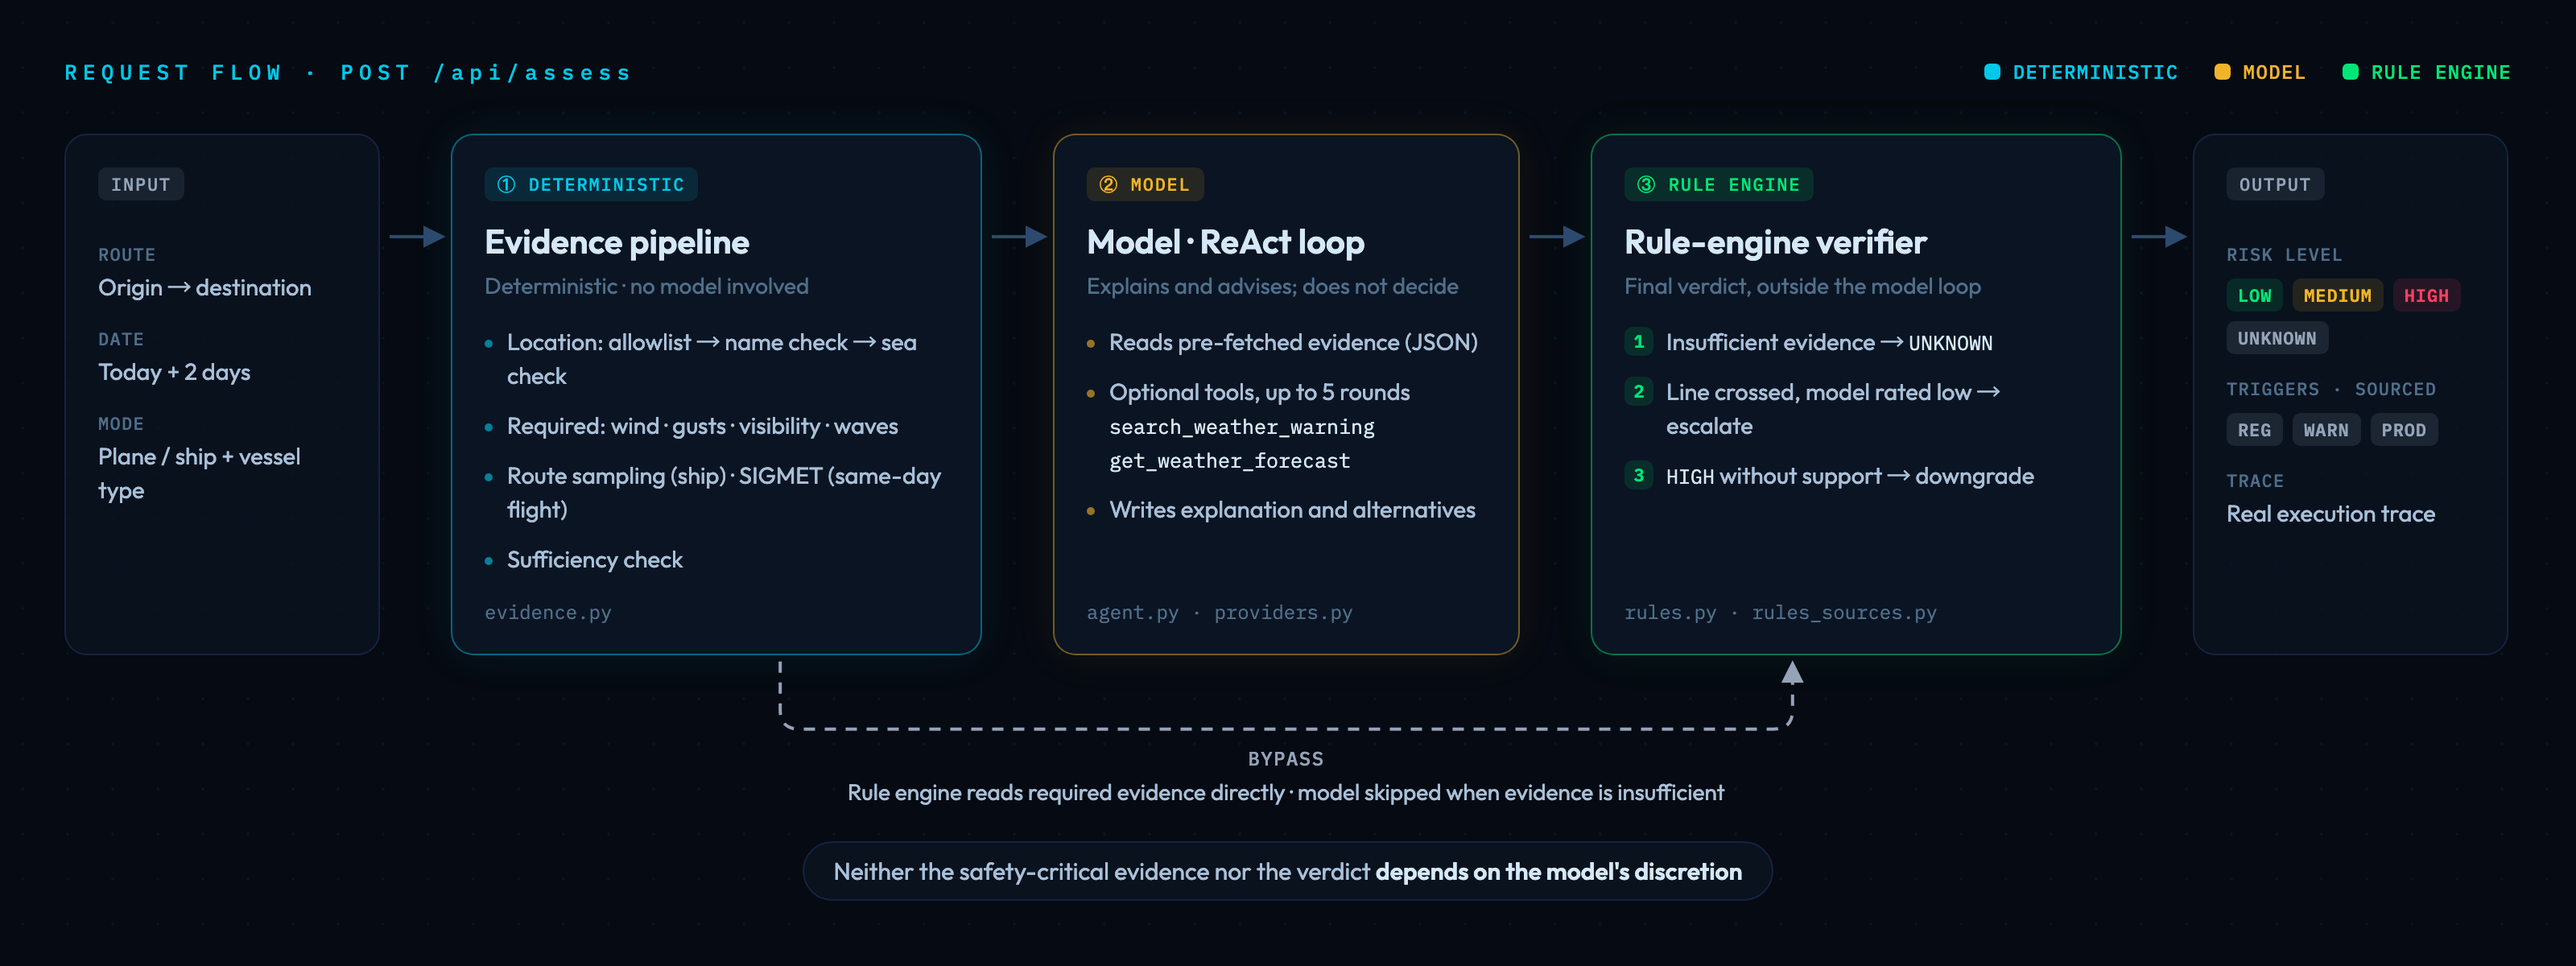
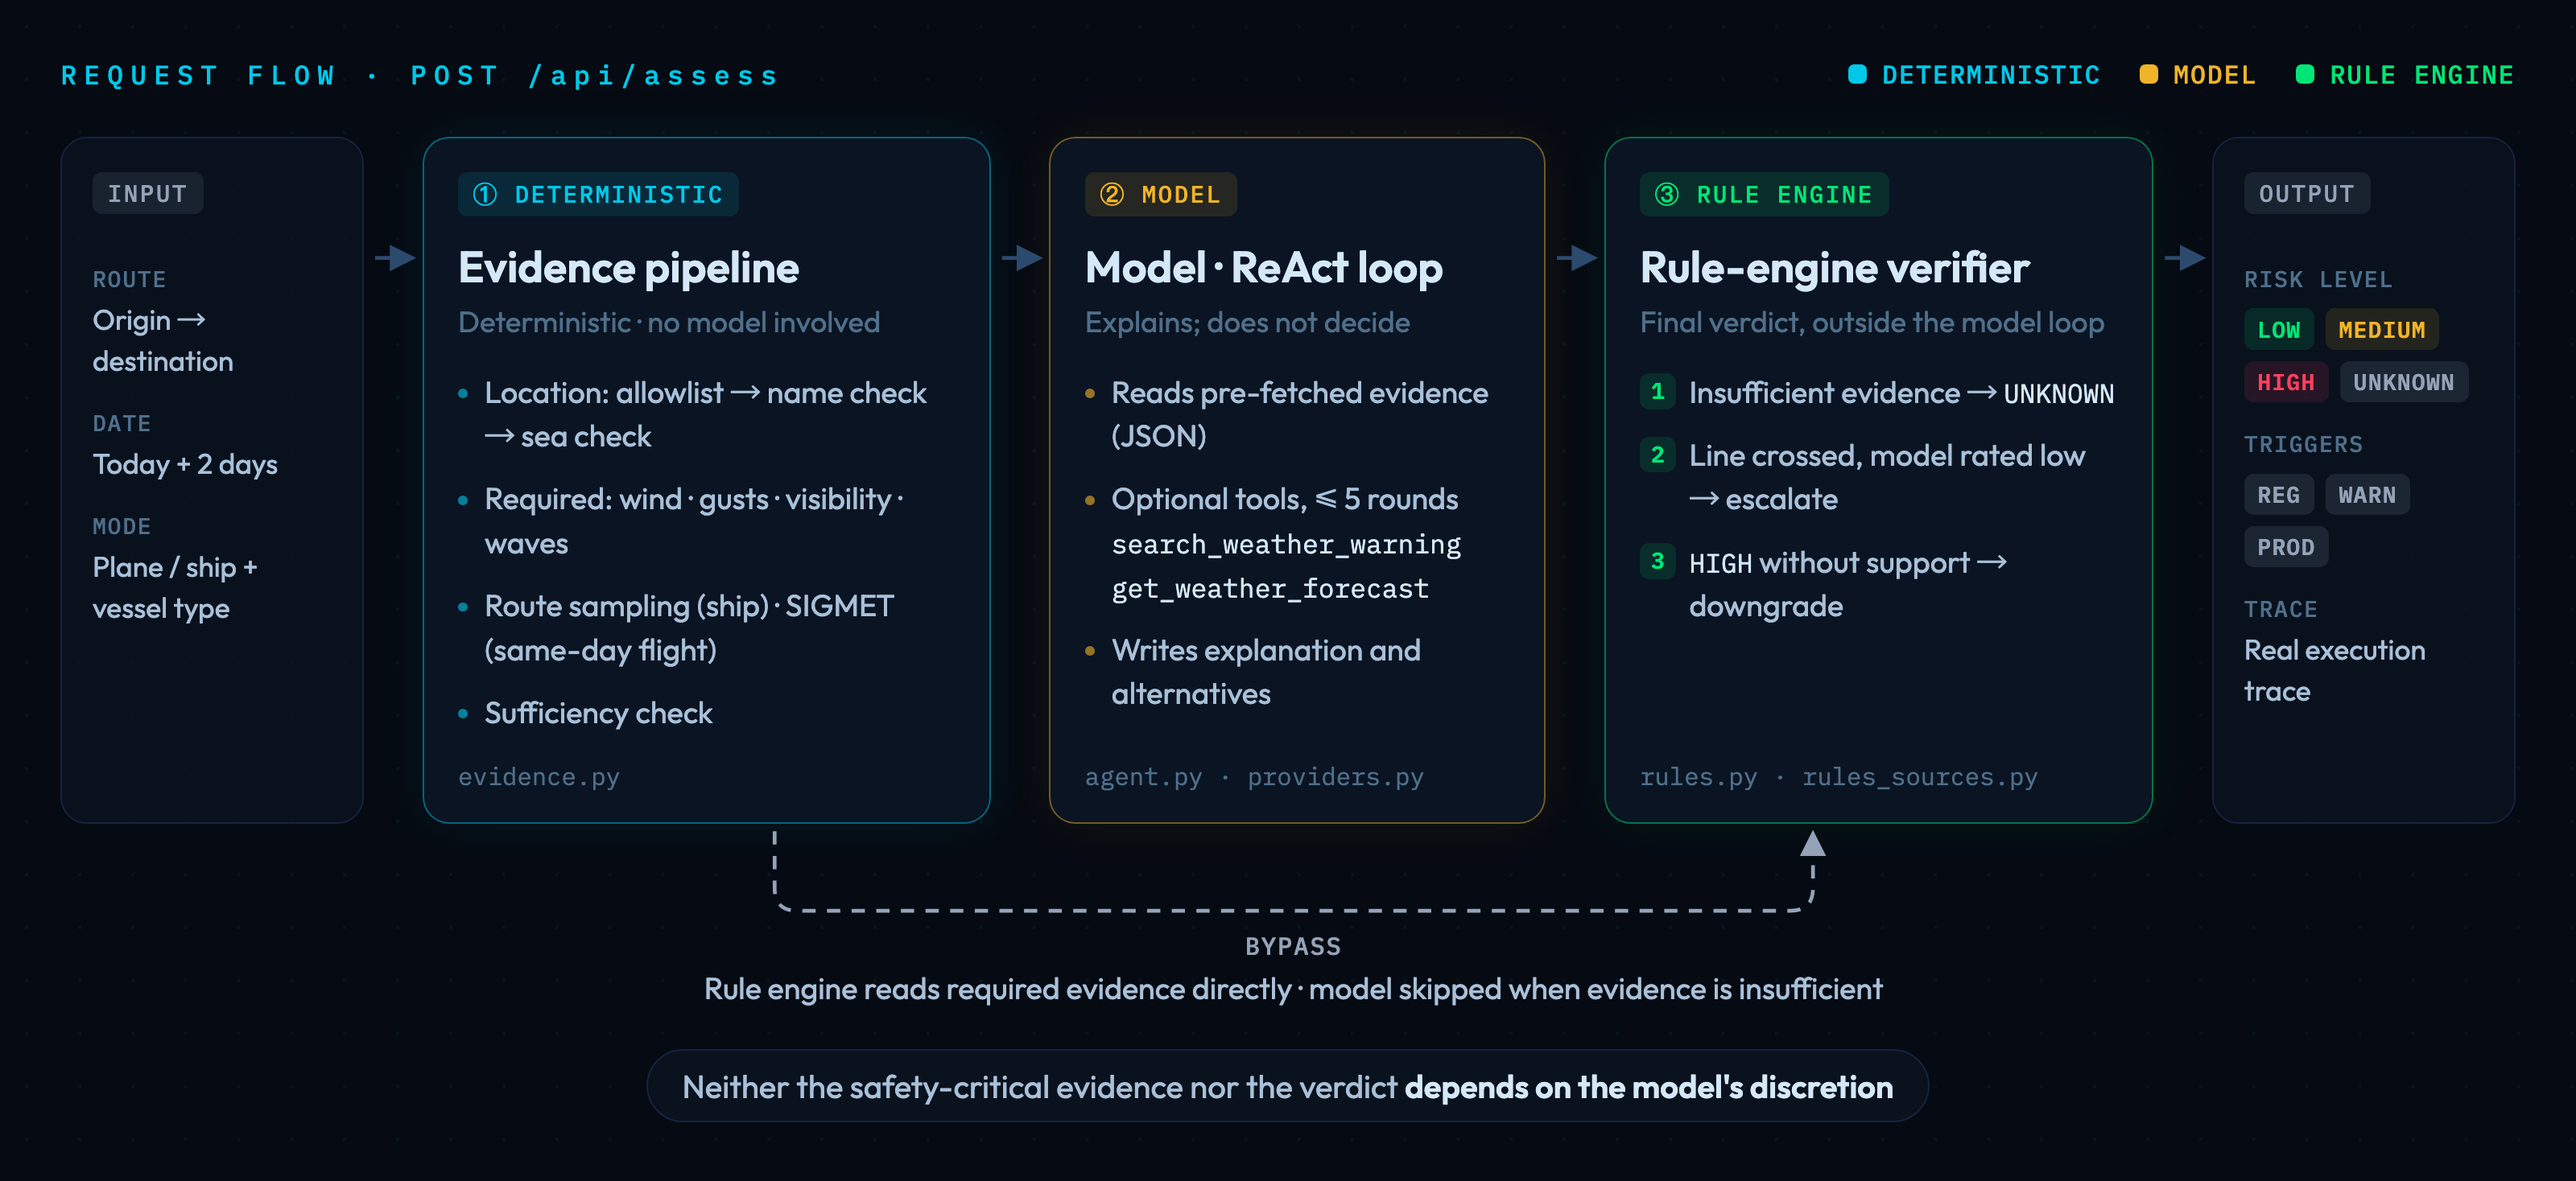
docs: 架构图改按 1360 宽排版，README 里正文字号从约 8px 提到约 10px
原图按 1600 宽排版，缩到 README 的约 880px 显示宽度后正文太小。
同时收紧中文文案避免单字折行，旁路虚线的覆盖层高度不再依赖视口。

diff --git a/tools/graphics/architecture.html b/tools/graphics/architecture.html
@@ -16,37 +16,39 @@
     --sans: 'Outfit', 'PingFang SC', 'Hiragino Sans GB', system-ui, sans-serif;
   }
   * { margin: 0; padding: 0; box-sizing: border-box; }
-  html, body { width: 1600px; height: 100vh; overflow: hidden; }
+  html, body { width: 100vw; height: 100vh; overflow: hidden; }
   body {
     position: relative;
     background: var(--bg);
     background-image: radial-gradient(circle, rgba(0,200,232,0.06) 1px, transparent 1px);
     background-size: 28px 28px;
     color: var(--text); font-family: var(--sans);
-    padding: 36px 40px 0;
+    padding: 30px 32px 0;
   }
 
-  .top { display: flex; justify-content: space-between; align-items: center; margin-bottom: 30px; }
-  .top-tag { font: 500 13px var(--mono); letter-spacing: 0.28em; color: var(--cyan); }
-  .legend { display: flex; gap: 22px; font: 500 12px var(--mono); letter-spacing: 0.06em; }
+  .top { display: flex; justify-content: space-between; align-items: center; margin-bottom: 24px; }
+  .top-tag { font: 500 14px var(--mono); letter-spacing: 0.28em; color: var(--cyan); }
+  .legend { display: flex; gap: 20px; font: 500 13.5px var(--mono); letter-spacing: 0.06em; }
   .legend span { display: flex; align-items: center; gap: 8px; }
   .legend i { width: 10px; height: 10px; border-radius: 3px; display: inline-block; }
 
   .row { display: flex; align-items: stretch; }
-  .gap { width: 44px; flex-shrink: 0; }
+  .gap { width: 31px; flex-shrink: 0; }
 
   .card {
     background: var(--surface); border: 1px solid var(--border); border-radius: 14px;
-    padding: 20px 20px 18px; display: flex; flex-direction: column;
+    padding: 18px 18px 16px; display: flex; flex-direction: column;
   }
-  .card.io { width: 196px; background: rgba(11,20,34,0.7); }
-  .card.stage { width: 330px; }
+  .card.io { width: 160px; padding-left: 16px; padding-right: 16px; background: rgba(11,20,34,0.7); }
+  .card.stage { width: 300px; }
+  .card { flex-shrink: 0; }
+  .card.rule { width: 290px; }
   .card.det   { border-color: rgba(0,200,232,0.45); box-shadow: 0 0 28px rgba(0,200,232,0.08); }
-  .card.model { border-color: rgba(240,180,41,0.45); box-shadow: 0 0 28px rgba(240,180,41,0.07); width: 290px; }
+  .card.model { border-color: rgba(240,180,41,0.45); box-shadow: 0 0 28px rgba(240,180,41,0.07); width: 262px; }
   .card.rule  { border-color: rgba(0,230,118,0.45); box-shadow: 0 0 28px rgba(0,230,118,0.07); }
 
   .badge {
-    align-self: flex-start; font: 500 11px var(--mono); letter-spacing: 0.08em;
+    align-self: flex-start; font: 500 12.5px var(--mono); letter-spacing: 0.08em;
     padding: 3px 8px; border-radius: 5px; margin-bottom: 12px;
   }
   .det .badge   { background: rgba(0,200,232,0.12); color: var(--cyan); }
@@ -54,41 +56,41 @@
   .rule .badge  { background: rgba(0,230,118,0.12); color: var(--green); }
   .io .badge    { background: rgba(148,163,184,0.12); color: var(--slate); }
 
-  h3 { font-size: 21px; font-weight: 600; color: var(--text-bright); line-height: 1.25; }
-  .sub { font-size: 14px; color: var(--text-muted); margin-top: 5px; }
+  h3 { font-size: 23px; font-weight: 600; color: var(--text-bright); line-height: 1.25; }
+  .sub { font-size: 15.5px; color: var(--text-muted); margin-top: 5px; }
   ul { list-style: none; margin-top: 16px; display: flex; flex-direction: column; gap: 10px; }
-  li { font-size: 14.5px; line-height: 1.45; padding-left: 14px; position: relative; }
-  li::before { content: ''; position: absolute; left: 0; top: 9px; width: 5px; height: 5px; border-radius: 50%; background: var(--border-bright); }
+  li { font-size: 16px; line-height: 1.45; padding-left: 14px; position: relative; }
+  li::before { content: ''; position: absolute; left: 0; top: 10px; width: 5px; height: 5px; border-radius: 50%; background: var(--border-bright); }
   .det li::before { background: rgba(0,200,232,0.6); }
   .model li::before { background: rgba(240,180,41,0.6); }
   .rule li::before { display: none; }
   .rule li { padding-left: 26px; }
   .rule li b {
-    position: absolute; left: 0; top: 1px; width: 18px; height: 18px; border-radius: 5px;
-    background: rgba(0,230,118,0.12); color: var(--green); font: 600 11px/18px var(--mono); text-align: center;
+    position: absolute; left: 0; top: 2px; width: 19px; height: 19px; border-radius: 5px;
+    background: rgba(0,230,118,0.12); color: var(--green); font: 600 12px/19px var(--mono); text-align: center;
   }
-  code { font: 12.5px var(--mono); color: var(--text-bright); }
-  .file { margin-top: auto; padding-top: 14px; font: 12px var(--mono); color: var(--text-muted); }
+  code { font: 14px var(--mono); color: var(--text-bright); }
+  .file { margin-top: auto; padding-top: 14px; font: 13px var(--mono); color: var(--text-muted); }
 
   .chips { display: flex; flex-wrap: wrap; gap: 6px; margin-top: 8px; }
-  .chip { font: 600 11px var(--mono); padding: 3px 7px; border-radius: 5px; letter-spacing: 0.04em; }
+  .chip { font: 600 12px var(--mono); padding: 3px 7px; border-radius: 5px; letter-spacing: 0.04em; }
   .chip.low { background: rgba(0,230,118,0.12); color: var(--green); }
   .chip.med { background: rgba(240,180,41,0.12); color: var(--amber); }
   .chip.high { background: rgba(255,64,96,0.12); color: var(--red); }
   .chip.unk { background: rgba(148,163,184,0.14); color: var(--slate); }
-  .io .item { font-size: 14.5px; line-height: 1.45; margin-top: 14px; }
+  .io .item { font-size: 15px; line-height: 1.45; margin-top: 14px; }
   .io .item:first-of-type { margin-top: 2px; }
-  .io .k { font: 500 11px var(--mono); color: var(--text-muted); letter-spacing: 0.06em; display: block; margin-bottom: 3px; }
+  .io .k { font: 500 12px var(--mono); color: var(--text-muted); letter-spacing: 0.06em; display: block; margin-bottom: 3px; }
 
   .bypass-label {
     position: absolute; transform: translateX(-50%); text-align: center;
-    font-size: 14px; color: var(--text); white-space: nowrap;
+    font-size: 16px; color: var(--text); white-space: nowrap;
   }
-  .bypass-label em { font-style: normal; color: var(--slate); font: 500 12px var(--mono); letter-spacing: 0.06em; display: block; margin-bottom: 4px; }
+  .bypass-label em { font-style: normal; color: var(--slate); font: 500 13px var(--mono); letter-spacing: 0.06em; display: block; margin-bottom: 4px; }
 
   .footer {
-    position: absolute; left: 40px; right: 40px;
-    display: flex; justify-content: center; font-size: 15px; color: var(--text);
+    position: absolute; left: 32px; right: 32px;
+    display: flex; justify-content: center; font-size: 17px; color: var(--text);
   }
   .footer span { padding: 8px 18px; border: 1px solid var(--border); border-radius: 999px; background: rgba(11,20,34,0.8); }
   .footer b { color: var(--text-bright); font-weight: 600; }
@@ -168,21 +170,21 @@ const T = {
     tag: "REQUEST FLOW · POST /api/assess",
     in_k1: "ROUTE", in_v1: "出发地 → 目的地",
     in_k2: "DATE", in_v2: "今天起 3 天",
-    in_k3: "MODE", in_v3: "飞机 / 船只（含船型）",
+    in_k3: "MODE", in_v3: "飞机 / 船只<br>船只另选船型",
     det_h: "确定性证据管线", det_sub: "不经模型",
-    det_1: "解析坐标：白名单 → 名字校验 → 海域回验",
-    det_2: "必需证据：风速 · 阵风 · 能见度 · 有效浪高",
-    det_3: "船只沿航路采样；航空当天查 SIGMET",
+    det_1: "解析坐标：<br>白名单 → 名字校验 → 海域回验",
+    det_2: "必需证据：<br>风速 · 阵风 · 能见度 · 有效浪高",
+    det_3: "船只：沿航路采样<br>航空：当天查 SIGMET",
     det_4: "充分性判定",
     model_h: "模型 · ReAct 循环", model_sub: "负责解释与建议，不负责判定",
-    model_1: "读取预取的结构化证据（JSON）",
-    model_2: "按需调用补充工具，最多 5 轮<br><code>search_weather_warning</code><br><code>get_weather_forecast</code>",
+    model_1: "读取预取证据（JSON）",
+    model_2: "按需调用补充工具，≤ 5 轮<br><code>search_weather_warning</code><br><code>get_weather_forecast</code>",
     model_3: "产出通俗解释与备选建议",
     rule_h: "规则引擎 verifier", rule_sub: "持有最终判定权，位于模型循环之外",
     rule_1: "证据不足 → <code>UNKNOWN</code>",
-    rule_2: "越过官方线而模型判低 → 强制升级",
-    rule_3: "模型判 <code>HIGH</code> 而指标不支持 → 降级",
-    out_k1: "RISK LEVEL", out_k2: "TRIGGERS · 带出处", out_k3: "TRACE", out_v3: "真实执行轨迹",
+    rule_2: "越线但模型判低 → 强制升级",
+    rule_3: "无指标支撑的 <code>HIGH</code> → 降级",
+    out_k1: "RISK LEVEL", out_k2: "TRIGGERS", out_k3: "TRACE", out_v3: "真实执行轨迹",
     by_em: "BYPASS", by: "必需证据直达规则引擎 · 证据不足时跳过模型调用",
     footer: "安全关键证据的获取与风险判定，<b>均不取决于模型的自由裁量</b>",
   },
@@ -196,15 +198,15 @@ const T = {
     det_2: "Required: wind · gusts · visibility · waves",
     det_3: "Route sampling (ship) · SIGMET (same-day flight)",
     det_4: "Sufficiency check",
-    model_h: "Model · ReAct loop", model_sub: "Explains and advises; does not decide",
+    model_h: "Model · ReAct loop", model_sub: "Explains; does not decide",
     model_1: "Reads pre-fetched evidence (JSON)",
-    model_2: "Optional tools, up to 5 rounds<br><code>search_weather_warning</code><br><code>get_weather_forecast</code>",
+    model_2: "Optional tools, ≤ 5 rounds<br><code>search_weather_warning</code><br><code>get_weather_forecast</code>",
     model_3: "Writes explanation and alternatives",
     rule_h: "Rule-engine verifier", rule_sub: "Final verdict, outside the model loop",
     rule_1: "Insufficient evidence → <code>UNKNOWN</code>",
     rule_2: "Line crossed, model rated low → escalate",
     rule_3: "<code>HIGH</code> without support → downgrade",
-    out_k1: "RISK LEVEL", out_k2: "TRIGGERS · SOURCED", out_k3: "TRACE", out_v3: "Real execution trace",
+    out_k1: "RISK LEVEL", out_k2: "TRIGGERS", out_k3: "TRACE", out_v3: "Real execution trace",
     by_em: "BYPASS", by: "Rule engine reads required evidence directly · model skipped when evidence is insufficient",
     footer: "Neither the safety-critical evidence nor the verdict <b>depends on the model's discretion</b>",
   },
@@ -215,7 +217,7 @@ document.querySelectorAll("[data-t]").forEach(el => { el.innerHTML = T[lang][el.
 
 function draw() {
   const r = id => document.getElementById(id).getBoundingClientRect();
-  const W = 1600, H = window.innerHeight;
+  const W = window.innerWidth, H = 1200;   // 覆盖层取足够高，不依赖视口高度
   const svg = document.createElementNS("http://www.w3.org/2000/svg", "svg");
   svg.setAttribute("width", W); svg.setAttribute("height", H);
   svg.innerHTML = `<defs>
